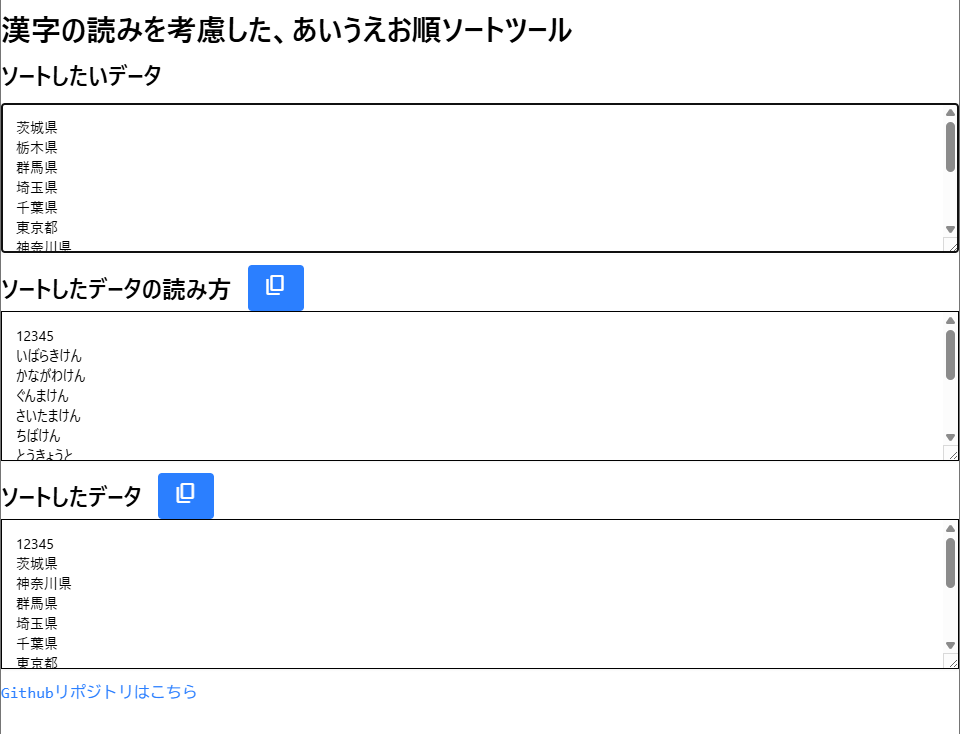
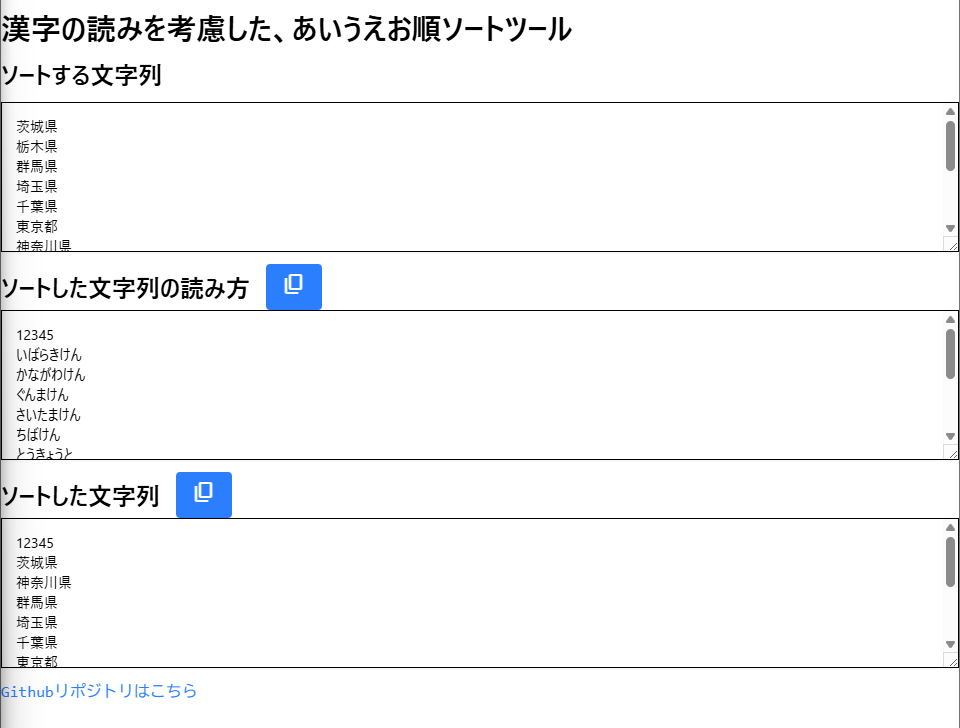
Update

Changed region(s): [[0.0, 0.0, 1.0, 1.0], [0.5312, 0.0302, 0.5938, 0.0604]]

diff --git a/app/page.tsx b/app/page.tsx
@@ -74,7 +74,7 @@ export default function Home() {
       >漢字の読みを考慮した、あいうえお順ソートツール</h1>
 
       <h2 className='text-2xl font-bold text-heading my-3'>
-        ソートしたいデータ</h2>
+        ソートする文字列</h2>
 
       <textarea
         rows={6}
@@ -96,7 +96,7 @@ export default function Home() {
       <div className='my-3'>
         <div className="flex items-center gap-4">
           <h2 className='text-2xl font-bold text-heading'>
-            ソートしたデータの読み方</h2>
+            ソートした文字列の読み方</h2>
           <button type="button"
             onClick={
               () => {
@@ -121,7 +121,7 @@ export default function Home() {
       <div className='my-3'>
         <div className="flex items-center gap-4">
           <h2 className='text-2xl font-bold text-heading'>
-            ソートしたデータ</h2>
+            ソートした文字列</h2>
           <button type="button"
             onClick={
               () => {
